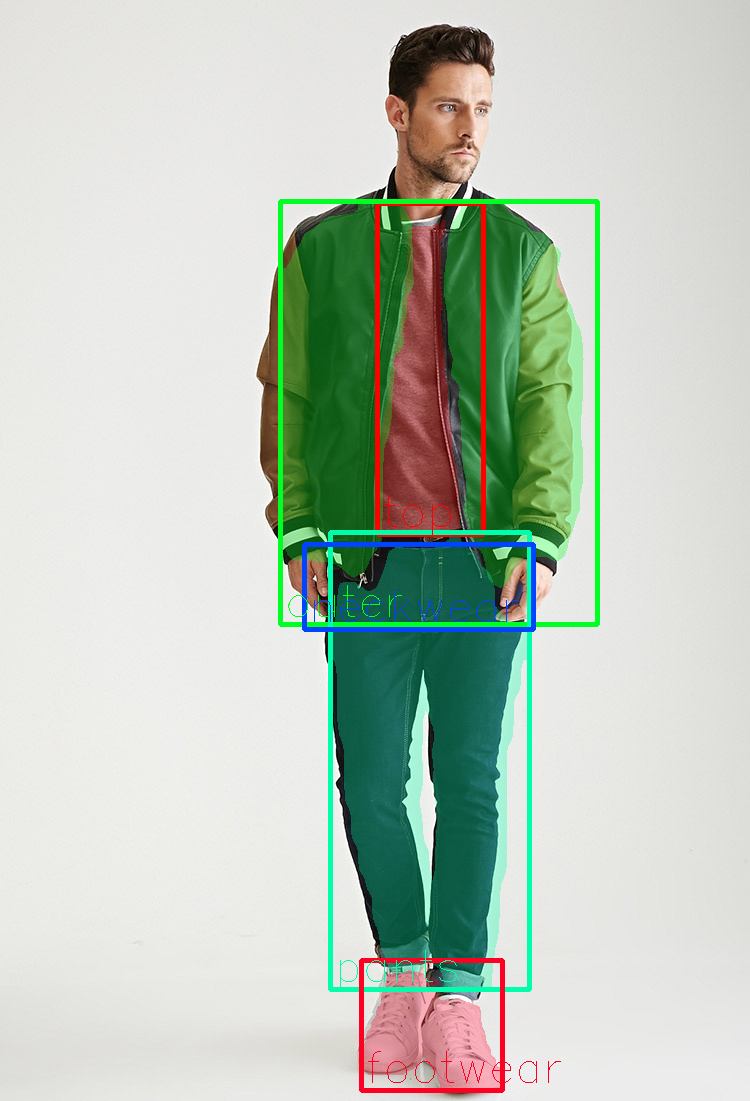
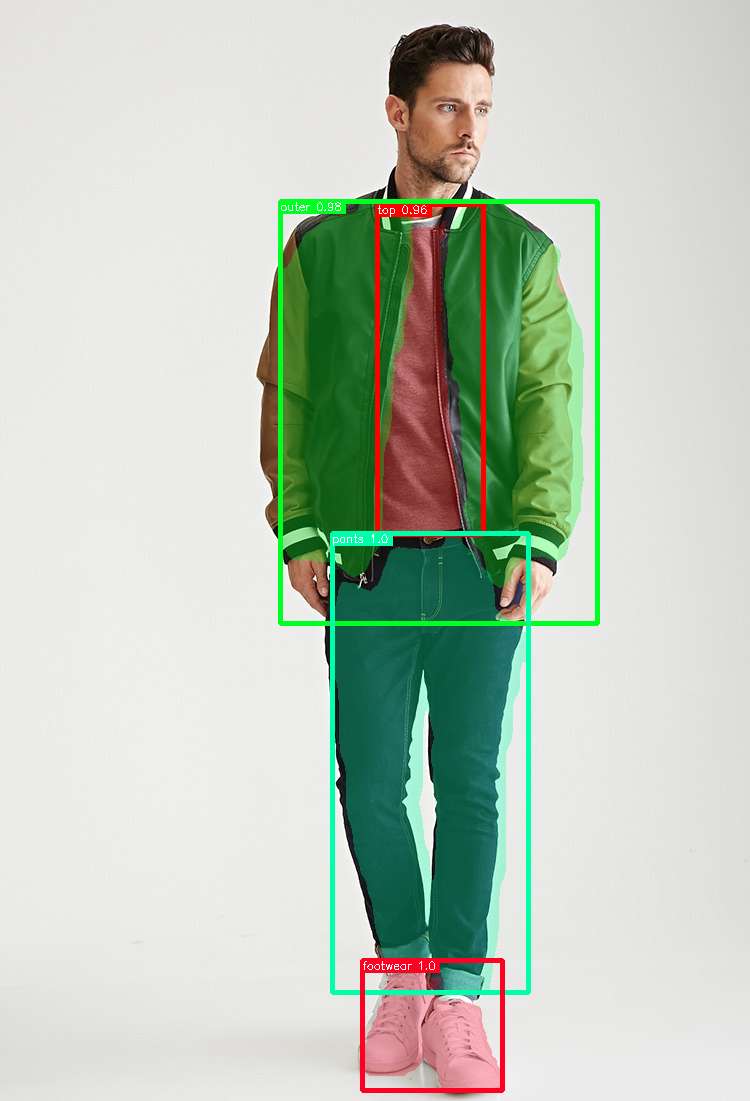
Change default threshold, Implement video writer

Changed region(s): [[0.3987, 0.4632, 0.736, 0.9573], [0.4907, 0.1853, 0.5827, 0.2162], [0.368, 0.1853, 0.46, 0.2162]]

diff --git a/deep_fashion/mmfashion/mmfashion.py b/deep_fashion/mmfashion/mmfashion.py
@@ -12,7 +12,7 @@ from utils import get_base_parser, update_parser, get_savepath  # noqa: E402
 from model_utils import check_and_download_models  # noqa: E402
 from detector_utils import plot_results, load_image  # noqa: E402
 from image_utils import normalize_image  # noqa: E402
-from webcamera_utils import get_capture  # noqa: E402
+import webcamera_utils  # noqa: E402
 
 # logger
 from logging import getLogger  # noqa: E402
@@ -34,7 +34,7 @@ CATEGORY = (
     'neckwear', 'headwear', 'eyeglass', 'belt', 'footwear', 'hair',
     'skin', 'face'
 )
-THRESHOLD = 0.3
+THRESHOLD = 0.6
 
 RESIZE_RANGE = (750, 1101)
 NORM_MEAN = [123.675, 116.28, 103.53]
@@ -261,7 +261,15 @@ def recognize_from_image(filename, detector, pp_net):
 
 
 def recognize_from_video(video, detector, pp_net):
-    capture = get_capture(args.video)
+    capture = webcamera_utils.get_capture(args.video)
+
+    # create video writer if savepath is specified as video format
+    if args.savepath != SAVE_IMAGE_PATH:
+        f_h = int(capture.get(cv2.CAP_PROP_FRAME_HEIGHT))
+        f_w = int(capture.get(cv2.CAP_PROP_FRAME_WIDTH))
+        writer = webcamera_utils.get_writer(args.savepath, f_h, f_w)
+    else:
+        writer = None
 
     while True:
         ret, frame = capture.read()
@@ -277,8 +285,15 @@ def recognize_from_video(video, detector, pp_net):
         )
         cv2.imshow('frame', res_img)
 
+        # save results
+        if writer is not None:
+            writer.write(res_img)
+
     capture.release()
     cv2.destroyAllWindows()
+    if writer is not None:
+        writer.release()
+    logger.info('Script finished successfully.')
 
 
 def main():
